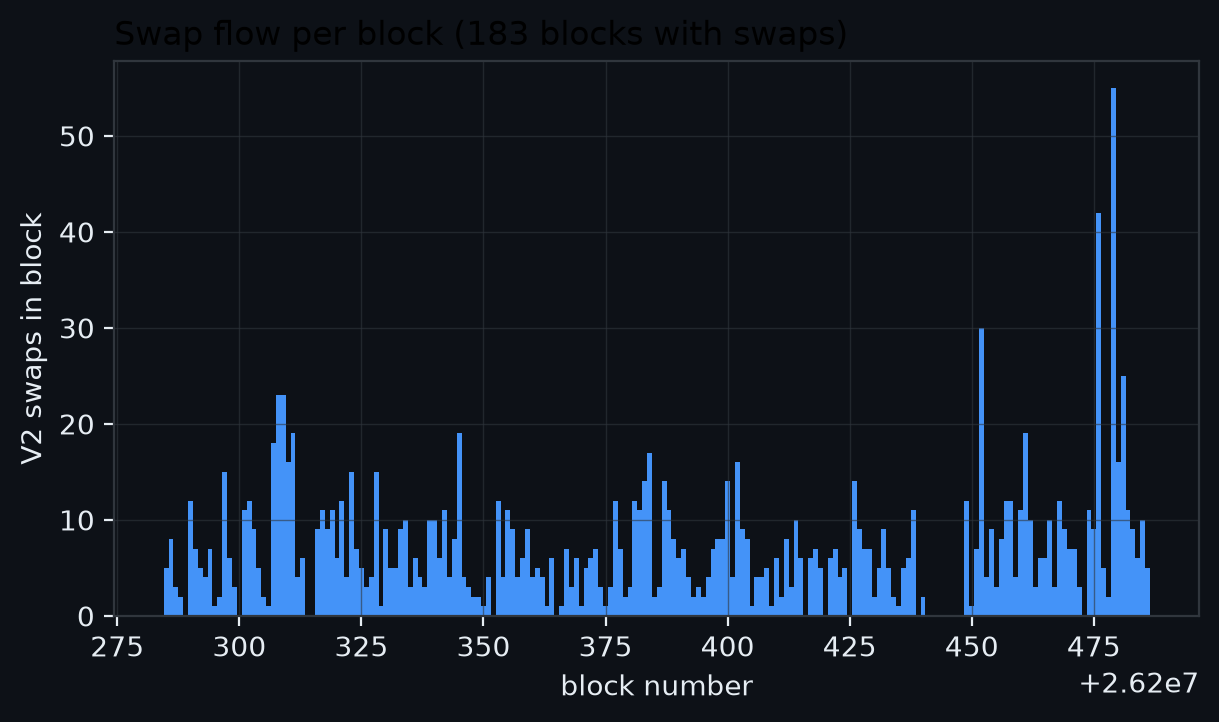
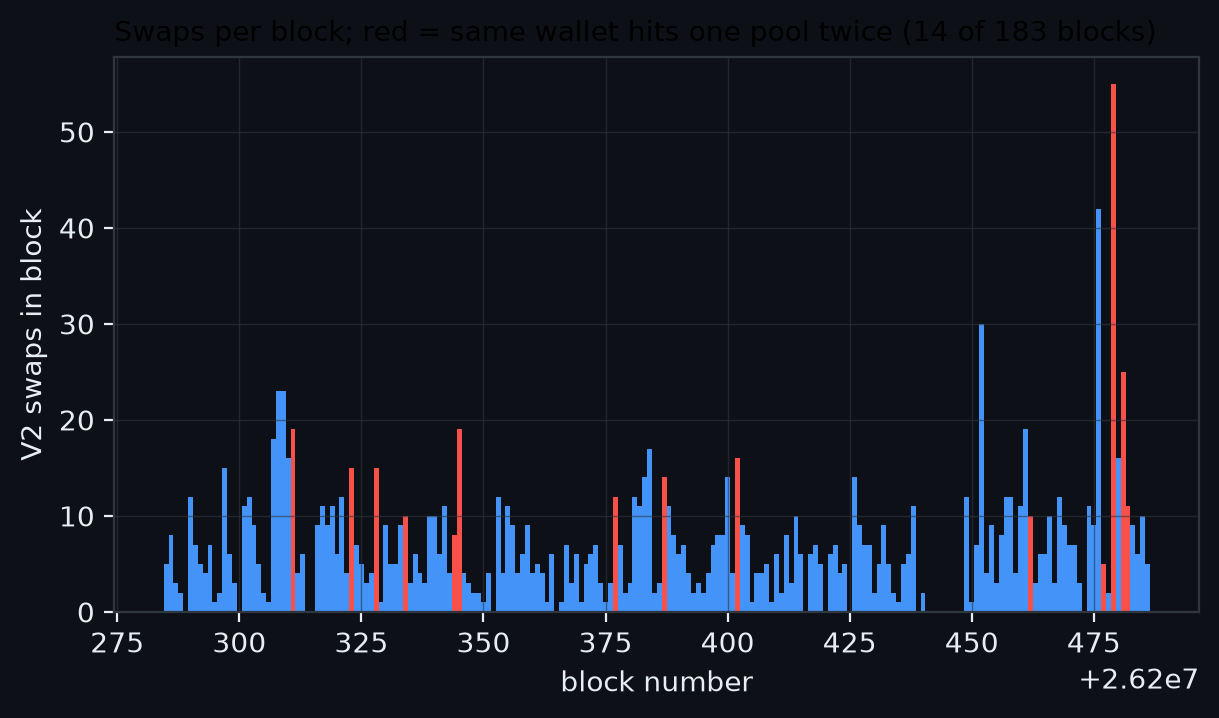
feat(figures): add size-depth and visibility README plots, drop funnel
Changed 17 file(s) [docs]

  - docs/research/figures/readme/flow-dark.png
  - docs/research/figures/readme/flow-light.png
  - docs/research/figures/readme/funnel-dark.png
  - docs/research/figures/readme/funnel-light.png
  - docs/research/figures/readme/guard-dark.png
  - docs/research/figures/readme/guard-light.png
  - docs/research/figures/readme/path-dark.png
  - docs/research/figures/readme/path-light.png
  - docs/research/figures/readme/sizedepth-dark.png
  - docs/research/figures/readme/sizedepth-light.png
  - docs/research/figures/readme/v3range-dark.png
  - docs/research/figures/readme/v3range-light.png
  - docs/research/figures/readme/visibility-dark.png
  - docs/research/figures/readme/visibility-light.png
  - scripts/figures/measured.py
  - scripts/figures/readme.py
  - scripts/figures/visibility.py

17 files changed, 115 insertions(+), 39 deletions(-)

diff --git a/scripts/figures/visibility.py b/scripts/figures/visibility.py
@@ -1,0 +1,78 @@
+"""Guard-visibility figures: slack ECDF and class shares with Wilson 95% intervals.
+
+Reads ``data/guard_estimator.duckdb`` (V3 decodable guards) and the newest ``data/gt_*`` run
+(V2 ground truth). Sample sizes go in the labels, never in the bar length.
+"""
+from __future__ import annotations
+
+import math
+
+import duckdb
+import matplotlib
+
+matplotlib.use("Agg")
+import matplotlib.pyplot as plt  # noqa: E402
+
+from eth_mev.config import DATA_DIR  # noqa: E402
+
+from .measured import OUT, _con, _frame  # noqa: E402
+
+
+def _slacks() -> list[float]:
+    con = duckdb.connect(str(DATA_DIR / "guard_estimator.duckdb"), read_only=True)
+    rows = sorted(r[0] for r in con.execute("select slack from guard_slacks").fetchall())
+    con.close()
+    return rows
+
+
+def wilson(k: int, n: int, z: float = 1.96) -> tuple[float, float, float]:
+    """Point share and Wilson score interval for k successes in n."""
+    p = k / n
+    d = 1 + z * z / n
+    c = (p + z * z / (2 * n)) / d
+    h = z * math.sqrt(p * (1 - p) / n + z * z / (4 * n * n)) / d
+    return p, c - h, c + h
+
+
+def guard_ecdf(th: dict, name: str) -> None:
+    s = _slacks()
+    n = len(s)
+    q = {p: s[int(p * (n - 1))] for p in (0.5, 0.8, 0.95)}
+    fig, ax = _frame(th)
+    ax.plot([max(v, 1e-7) * 100 for v in s], [(i + 1) / n for i in range(n)], color=th["a"], lw=2)
+    for p, v in q.items():
+        ax.axvline(max(v, 1e-7) * 100, color=th["b"], ls="--", lw=1)
+        ax.annotate(f"p{int(p * 100)} = {v * 100:.2f}%", (max(v, 1e-7) * 100, p),
+                    textcoords="offset points", xytext=(4, -12), color=th["fg"], fontsize=8)
+    ax.set_xscale("log")
+    ax.set_xlabel("guard slack: actual out / amountOutMinimum - 1 (%), zeros drawn at 1e-5 %")
+    ax.set_ylabel("share of decodable V3 swaps")
+    ax.set_title(f"Half of all decodable guards leave under {q[0.5] * 100:.2f}% of room (n={n:,})",
+                 loc="left", fontsize=10)
+    fig.savefig(OUT / f"guard-{name}.png", bbox_inches="tight", dpi=200)
+    plt.close(fig)
+
+
+def visibility(th: dict, name: str) -> None:
+    s = _slacks()
+    n3 = len(s)
+    classes = [("V3 slack = 0", sum(v == 0 for v in s)),
+               ("V3 slack 0 to 0.1%", sum(0 < v <= 1e-3 for v in s)),
+               ("V3 slack 0.1% to 1%", sum(1e-3 < v <= 1e-2 for v in s)),
+               ("V3 slack > 1%", sum(v > 1e-2 for v in s))]
+    n2, k2 = _con().execute("select count(*), count(\"limit\") from included_swaps").fetchone()
+    rows = [(f"V2 guard decodable (of n={n2:,} swaps)", k2, n2)]
+    rows += [(f"{lab} (of n={n3:,} decodable)", k, n3) for lab, k in classes]
+    fig, ax = _frame(th, 7.6, 3.4)
+    for i, (lab, k, n) in enumerate(rows[::-1]):
+        p, lo, hi = wilson(k, n)
+        ax.hlines(i, lo * 100, hi * 100, color=th["a"], lw=3)
+        ax.plot(p * 100, i, "o", color=th["b"])
+        ax.annotate(f"{p * 100:.1f}%  [{lo * 100:.1f}, {hi * 100:.1f}]", (hi * 100, i),
+                    textcoords="offset points", xytext=(6, -3), color=th["fg"], fontsize=8)
+    ax.set_yticks(range(len(rows)), [r[0] for r in rows[::-1]])
+    ax.set_xlim(0, 100)
+    ax.set_xlabel("share of class (%), Wilson 95% interval")
+    ax.set_title("How visible and how loose guards are", loc="left")
+    fig.savefig(OUT / f"visibility-{name}.png", bbox_inches="tight", dpi=200)
+    plt.close(fig)

diff --git a/scripts/figures/readme.py b/scripts/figures/readme.py
@@ -21,15 +21,14 @@ from eth_mev.measure.exposure.v2.mesp import _profit_buy, tokens_for_net  # noqa
 from eth_mev.onchain.decode.v2.swaps import Swap  # noqa: E402
 
 from .measured import measured_figures  # noqa: E402
+from .mechanism import sandwich_path, v3_vs_v2  # noqa: E402
+from .visibility import guard_ecdf, visibility  # noqa: E402
 
 OUT = REPO / "docs" / "research" / "figures" / "readme"
 THEMES = {
     "light": {"bg": "#ffffff", "fg": "#1f2328", "grid": "#d0d7de", "a": "#0969da", "b": "#cf222e"},
     "dark": {"bg": "#0d1117", "fg": "#e6edf3", "grid": "#30363d", "a": "#4493f8", "b": "#f85149"},
 }
-# V3 decode funnel, 146-swap mainnet window.
-FUNNEL = [("V3 swaps decoded", 145), ("guard decodable", 6), ("guard > 0", 3),
-          ("MESP > fees", 2), ("strict target", 1)]
 
 
 def _style(ax, fig, th: dict) -> None:
@@ -45,37 +44,6 @@ def _style(ax, fig, th: dict) -> None:
     ax.title.set_color(th["fg"])
     ax.set_axisbelow(True)
     ax.grid(True, color=th["grid"], linewidth=0.6, alpha=0.7)
-
-
-def guard_cdf(th: dict, name: str) -> None:
-    con = duckdb.connect(str(DATA_DIR / "guard_estimator.duckdb"), read_only=True)
-    slacks = sorted(r[0] for r in con.execute("select slack from guard_slacks").fetchall())
-    con.close()
-    n = len(slacks)
-    fig, ax = plt.subplots(figsize=(8, 4.2))
-    ax.plot([max(s, 1e-7) * 100 for s in slacks], [(i + 1) / n for i in range(n)], color=th["a"], lw=2)
-    ax.axvline(0.1, color=th["b"], ls="--", lw=1.2)
-    ax.set_xscale("log")
-    ax.set_xlabel("guard slack: actual out / amountOutMinimum - 1 (%)")
-    ax.set_ylabel("share of victims")
-    ax.set_title(f"How much room victims leave ({n:,} decodable V3 swaps)")
-    _style(ax, fig, th)
-    fig.savefig(OUT / f"guard-{name}.png", bbox_inches="tight", dpi=200)
-    plt.close(fig)
-
-
-def funnel(th: dict, name: str) -> None:
-    labels, counts = zip(*FUNNEL)
-    fig, ax = plt.subplots(figsize=(8, 3.6))
-    ax.barh(labels[::-1], counts[::-1], color=[th["b"]] + [th["a"]] * (len(counts) - 1))
-    for i, c in enumerate(counts[::-1]):
-        ax.text(c + 1.5, i, f"{c}  ({100 * c / counts[0]:.1f}%)", va="center", color=th["fg"])
-    ax.set_xlim(0, counts[0] * 1.25)
-    ax.set_xlabel("swaps")
-    ax.set_title("Where V3 swaps drop out of the screen")
-    _style(ax, fig, th)
-    fig.savefig(OUT / f"funnel-{name}.png", bbox_inches="tight", dpi=200)
-    plt.close(fig)
 
 
 def exposure_curve(th: dict, name: str) -> None:
@@ -175,9 +143,12 @@ def capital_daily(th: dict, name: str) -> None:
 def main() -> None:
     OUT.mkdir(parents=True, exist_ok=True)
     for name, th in THEMES.items():
-        guard_cdf(th, name)
-        funnel(th, name)
+        guard_ecdf(th, name)
+        visibility(th, name)
+        sandwich_path(th, name)
+        v3_vs_v2(th, name)
         exposure_curve(th, name)
+        capital_daily(th, name)
         measured_figures(th, name)
     print(f"wrote figures to {OUT}")
 

diff --git a/scripts/figures/measured.py b/scripts/figures/measured.py
@@ -75,16 +75,42 @@ def pool_concentration(th: dict, name: str) -> None:
 
 
 def block_flow(th: dict, name: str) -> None:
-    """Included V2 swaps per block across the recorded window."""
+    """V2 swaps per block; blocks where one wallet trades the same pool twice are highlighted."""
     con = _con()
     rows = con.execute("select block_number, count(*) from included_swaps "
                        "group by 1 order by 1").fetchall()
+    rep = {r[0] for r in con.execute(
+        "select distinct block_number from (select block_number, pool, user, count(*) c "
+        "from included_swaps group by 1, 2, 3 having c >= 2)").fetchall()}
     fig, ax = _frame(th)
-    ax.bar([r[0] for r in rows], [r[1] for r in rows], color=th["a"], width=1.0)
+    ax.bar([r[0] for r in rows], [r[1] for r in rows], width=1.0,
+           color=[th["b"] if r[0] in rep else th["a"] for r in rows])
     ax.set_xlabel("block number")
     ax.set_ylabel("V2 swaps in block")
-    ax.set_title(f"Swap flow per block ({len(rows)} blocks with swaps)", loc="left")
+    ax.set_title(f"Swaps per block; red = same wallet hits one pool twice ({len(rep)} of "
+                 f"{len(rows)} blocks)", loc="left", fontsize=10)
     fig.savefig(OUT / f"flow-{name}.png", bbox_inches="tight", dpi=200)
+    plt.close(fig)
+
+
+def size_depth(th: dict, name: str) -> None:
+    """Swap size against pool depth in the input token's base units, with iso-impact lines."""
+    rows = _con().execute("select x_pre, amount_in from included_swaps "
+                          "where x_pre > 0 and amount_in > 0").fetchall()
+    xs, ys = zip(*rows)
+    fig, ax = _frame(th)
+    ax.scatter(xs, ys, s=6, color=th["a"], alpha=0.5, linewidths=0)
+    lo, hi = min(xs), max(xs)
+    for imp in (1e-4, 1e-2, 1e-1):
+        ax.plot([lo, hi], [lo * imp, hi * imp], color=th["b"], ls="--", lw=1)
+        ax.annotate(f"impact {imp:g}", (hi, hi * imp), textcoords="offset points",
+                    xytext=(-4, 3), ha="right", color=th["fg"], fontsize=8)
+    ax.set_xscale("log")
+    ax.set_yscale("log")
+    ax.set_xlabel("pool depth, input reserve (base units)")
+    ax.set_ylabel("swap size (base units)")
+    ax.set_title(f"Where swaps sit in size-depth space (n={len(rows):,})", loc="left")
+    fig.savefig(OUT / f"sizedepth-{name}.png", bbox_inches="tight", dpi=200)
     plt.close(fig)
 
 
@@ -92,3 +118,4 @@ def measured_figures(th: dict, name: str) -> None:
     price_impact(th, name)
     pool_concentration(th, name)
     block_flow(th, name)
+    size_depth(th, name)
